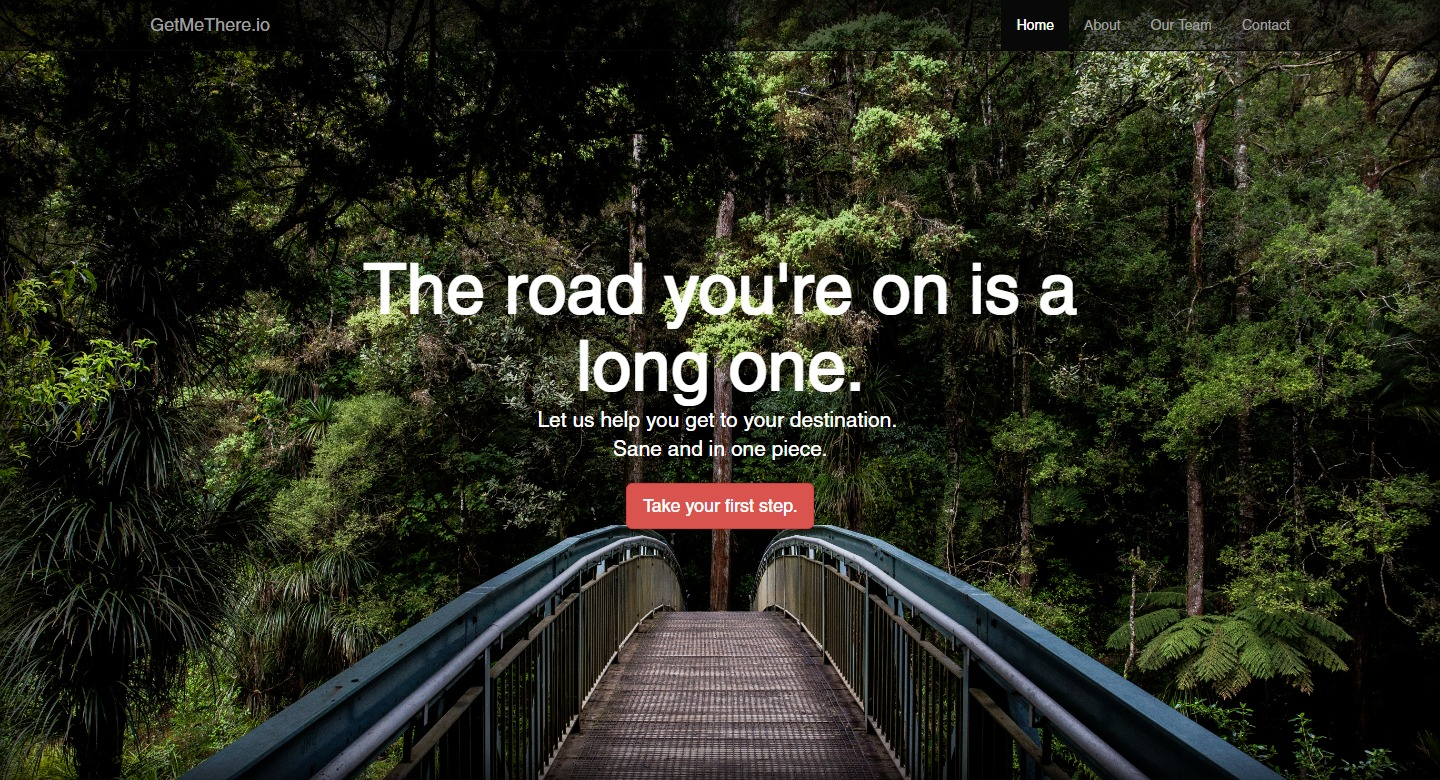
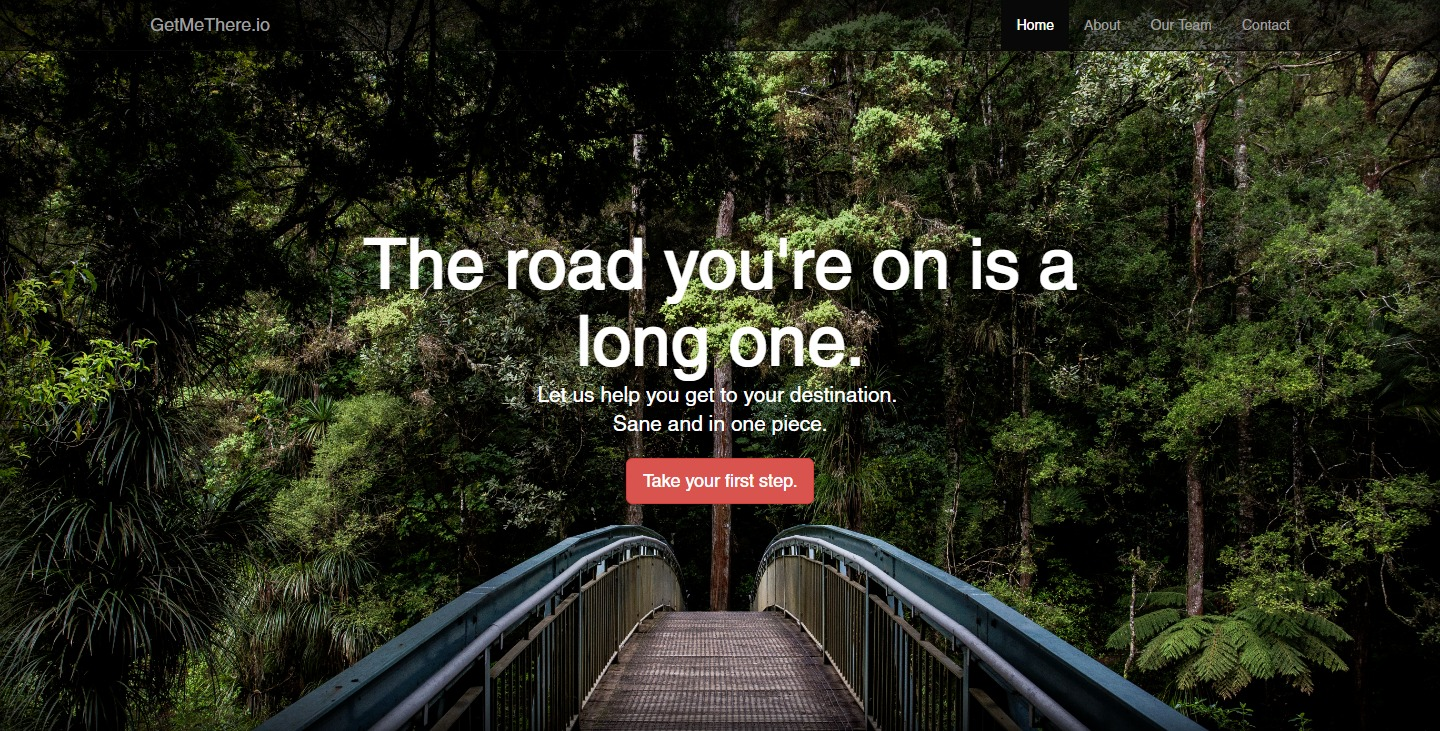
updated imgs and img css

diff --git a/css/style.css b/css/style.css
@@ -19,12 +19,11 @@ h2 {
 
 
 /* Portfolio */
-li {
+
+#portfolio li {
     list-style: none;
-    margin: 2px;
+    margin: 10px 0px;
 }
-
-
 
 
 /* About */
